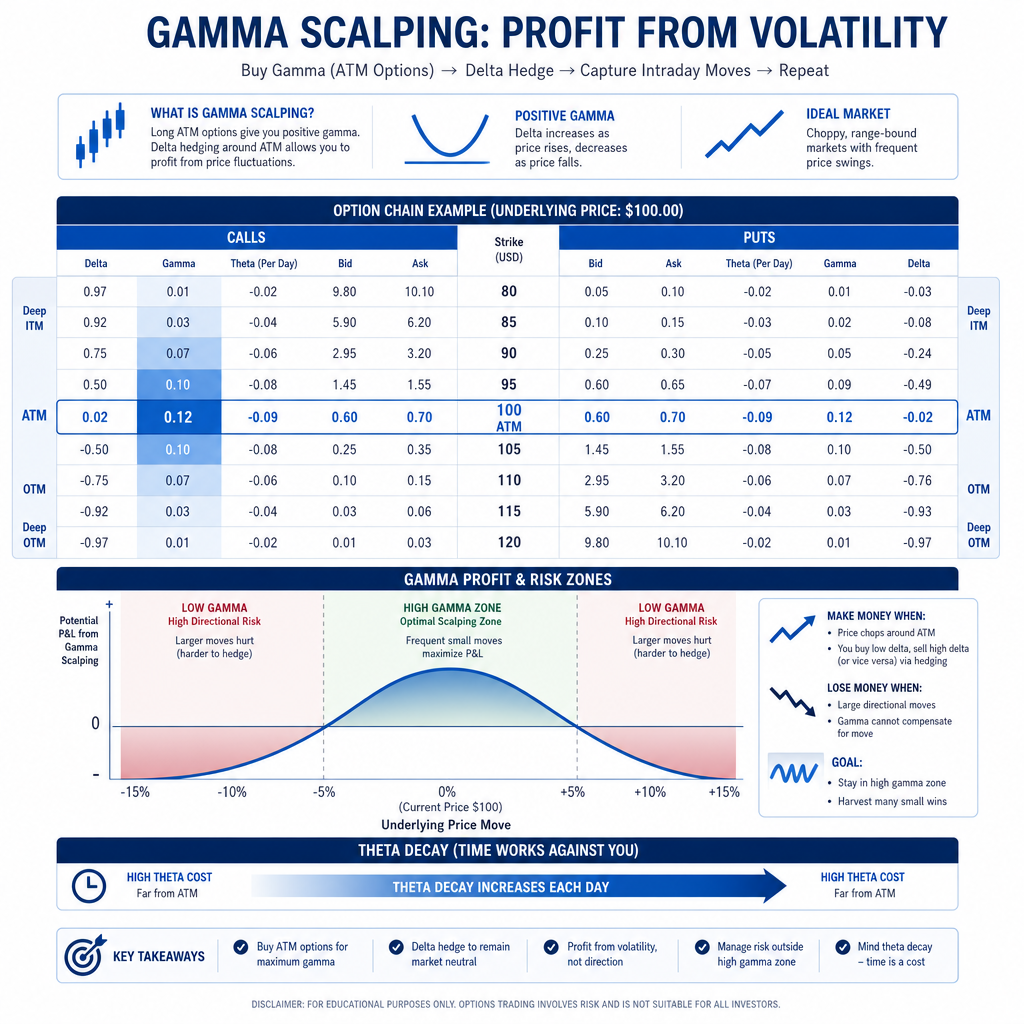
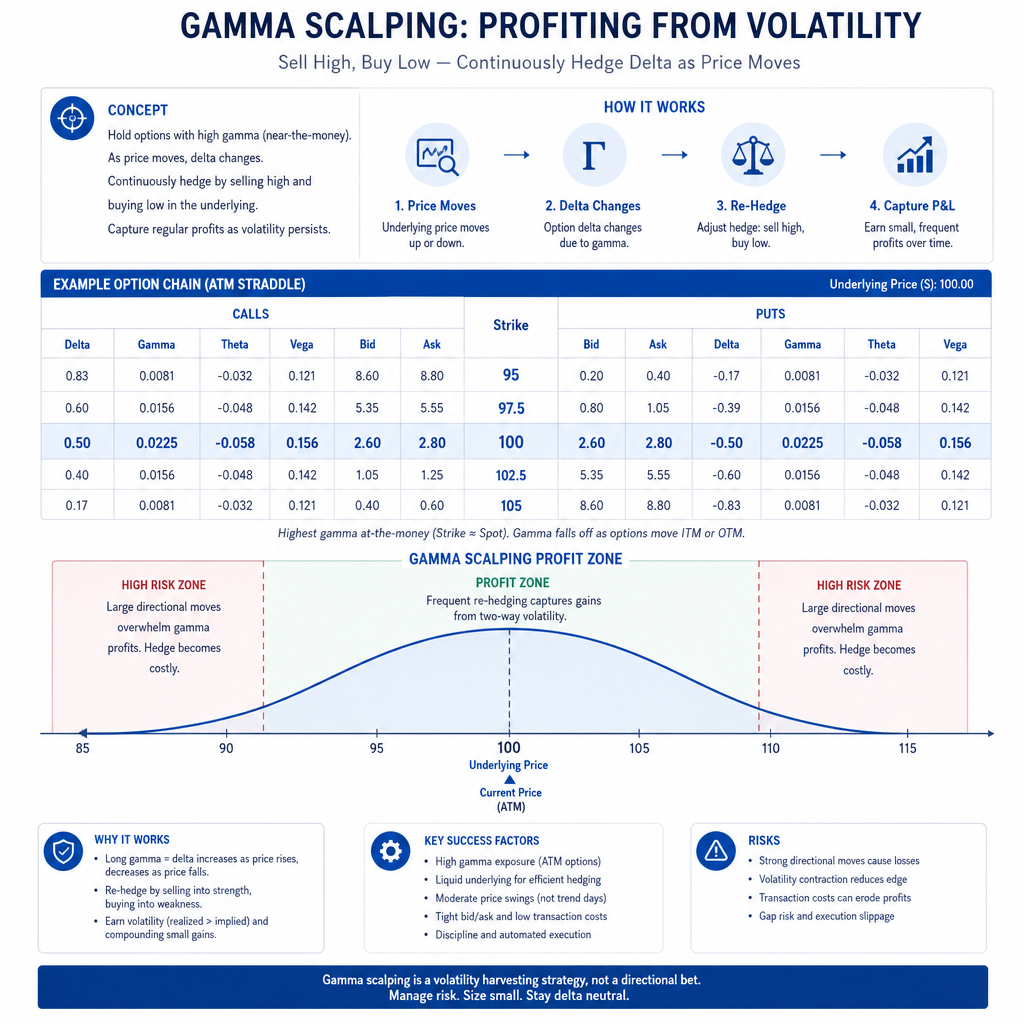
Add self-referencing canonical tags to all HTML pages

diff --git a/articles/2026-05-23-bond-yields-equity-options.html b/articles/2026-05-23-bond-yields-equity-options.html
@@ -13,7 +13,10 @@
  .share-btn { display: inline-flex; align-items: center; gap: 5px; padding: 7px 12px; border-radius: 4px; font-size: 12px; text-decoration: none; border: 1px solid #cc0000; background: transparent; cursor: pointer; font-family: inherit; color: #cc0000; transition: opacity 0.15s; }
  .share-btn:hover { opacity: 0.7; }
  </style>
- <link rel="canonical" href="https://dependability.us/articles/2026-05-23-bond-yields-equity-options">
+<link rel="canonical" href="https://dependability.us/articles/2026-05-23-bond-yields-equity-options.html"> <meta property="og:title" content="Bond Yields and Equity Options: The Interest Rate Connection">
+ <meta property="og:description" content="Understanding how Treasury yields affect option pricing through the lens of the Black-Scholes model, rho, and put-call parity.">
+ <meta property="og:image" content="https://dependability.us/articles/2026-05-23-bond-yields-equity-options.png">
+ <meta property="og:type" content="article">
  <script async src="https://pagead2.googlesyndication.com/pagead/js/adsbygoogle.js?client=ca-pub-9312870448453345" crossorigin="anonymous"></script>
 </head>
 <body>

diff --git a/articles/2026-05-23-gamma-scalping.html b/articles/2026-05-23-gamma-scalping.html
@@ -13,7 +13,10 @@
  .share-btn { display: inline-flex; align-items: center; gap: 5px; padding: 7px 12px; border-radius: 4px; font-size: 12px; text-decoration: none; border: 1px solid #cc0000; background: transparent; cursor: pointer; font-family: inherit; color: #cc0000; transition: opacity 0.15s; }
  .share-btn:hover { opacity: 0.7; }
  </style>
-  <link rel="canonical" href="https://dependability.us/articles/2026-05-23-gamma-scalping">
+<link rel="canonical" href="https://dependability.us/articles/2026-05-23-gamma-scalping.html"> <meta property="og:title" content="Gamma Scalping in Practice: Theory vs. Reality">
+ <meta property="og:description" content="Moving beyond textbook explanations to show how market makers manage gamma exposure and what retail traders can learn.">
+ <meta property="og:image" content="https://dependability.us/articles/2026-05-23-gamma-scalping.png">
+ <meta property="og:type" content="article">
  <script async src="https://pagead2.googlesyndication.com/pagead/js/adsbygoogle.js?client=ca-pub-9312870448453345" crossorigin="anonymous"></script>
 </head>
 <body>

diff --git a/articles/2026-05-23-market-regime-change.html b/articles/2026-05-23-market-regime-change.html
@@ -13,7 +13,10 @@
  .share-btn { display: inline-flex; align-items: center; gap: 5px; padding: 7px 12px; border-radius: 4px; font-size: 12px; text-decoration: none; border: 1px solid #cc0000; background: transparent; cursor: pointer; font-family: inherit; color: #cc0000; transition: opacity 0.15s; }
  .share-btn:hover { opacity: 0.7; }
  </style>
- <link rel="canonical" href="https://dependability.us/articles/2026-05-23-market-regime-change">
+<link rel="canonical" href="https://dependability.us/articles/2026-05-23-market-regime-change.html"> <meta property="og:title" content="The Anatomy of a Market Regime Change">
+ <meta property="og:description" content="Understanding market regime changes, breadth indicators, sector rotation patterns, and how to adjust options strategies across different market environments.">
+ <meta property="og:image" content="https://dependability.us/articles/2026-05-23-market-regime-change.png">
+ <meta property="og:type" content="article">
  <script async src="https://pagead2.googlesyndication.com/pagead/js/adsbygoogle.js?client=ca-pub-9312870448453345" crossorigin="anonymous"></script>
 </head>
 <body>

diff --git a/articles/2026-05-23-reading-the-skew.html b/articles/2026-05-23-reading-the-skew.html
@@ -13,7 +13,10 @@
  .share-btn { display: inline-flex; align-items: center; gap: 5px; padding: 7px 12px; border-radius: 4px; font-size: 12px; text-decoration: none; border: 1px solid #cc0000; background: transparent; cursor: pointer; font-family: inherit; color: #cc0000; transition: opacity 0.15s; }
  .share-btn:hover { opacity: 0.7; }
  </style>
-  <link rel="canonical" href="https://dependability.us/articles/2026-05-23-reading-the-skew">
+<link rel="canonical" href="https://dependability.us/articles/2026-05-23-reading-the-skew.html"> <meta property="og:title" content="Reading the Skew: What Options Prices Tell You About Market Expectations">
+ <meta property="og:description" content="Decoding the volatility smile and skew to understand what institutional traders are hedging against.">
+ <meta property="og:image" content="https://dependability.us/articles/2026-05-23-reading-the-skew.png">
+ <meta property="og:type" content="article">
  <script async src="https://pagead2.googlesyndication.com/pagead/js/adsbygoogle.js?client=ca-pub-9312870448453345" crossorigin="anonymous"></script>
 </head>
 <body>

diff --git a/articles/2026-05-23-understanding-the-vix.html b/articles/2026-05-23-understanding-the-vix.html
@@ -13,7 +13,10 @@
  .share-btn { display: inline-flex; align-items: center; gap: 5px; padding: 7px 12px; border-radius: 4px; font-size: 12px; text-decoration: none; border: 1px solid #cc0000; background: transparent; cursor: pointer; font-family: inherit; color: #cc0000; transition: opacity 0.15s; }
  .share-btn:hover { opacity: 0.7; }
  </style>
- <link rel="canonical" href="https://dependability.us/articles/2026-05-23-understanding-the-vix">
+<link rel="canonical" href="https://dependability.us/articles/2026-05-23-understanding-the-vix.html"> <meta property="og:title" content="Understanding the VIX: Why Market Fear is a Tradable Asset">
+ <meta property="og:description" content="A deep-dive into the CBOE Volatility Index (VIX): how it's calculated, what its spikes mean, VIX futures term structure, and how retail traders can use it for portfolio hedging.">
+ <meta property="og:image" content="https://dependability.us/articles/2026-05-23-understanding-the-vix.png">
+ <meta property="og:type" content="article">
  <script async src="https://pagead2.googlesyndication.com/pagead/js/adsbygoogle.js?client=ca-pub-9312870448453345" crossorigin="anonymous"></script>
 </head>
 <body>

diff --git a/about.html b/about.html
@@ -7,8 +7,7 @@
  <meta name="description" content="Dependability Holdings LLC — independent financial research on market volatility, options strategies, and macroeconomic trends.">
  <link rel="stylesheet" href="/style.css">
   <link rel="icon" type="image/svg+xml" href="/favicon.svg">
-  <link rel="canonical" href="https://dependability.us/about">
- <script async src="https://pagead2.googlesyndication.com/pagead/js/adsbygoogle.js?client=ca-pub-9312870448453345" crossorigin="anonymous"></script>
+<link rel="canonical" href="https://dependability.us/about.html"> <script async src="https://pagead2.googlesyndication.com/pagead/js/adsbygoogle.js?client=ca-pub-9312870448453345" crossorigin="anonymous"></script>
 </head>
 <body>
 

diff --git a/articles/2026-05-01-put-call-parity.html b/articles/2026-05-01-put-call-parity.html
@@ -13,8 +13,7 @@
  .share-btn { display: inline-flex; align-items: center; gap: 5px; padding: 7px 12px; border-radius: 4px; font-size: 12px; text-decoration: none; border: 1px solid #cc0000; background: transparent; cursor: pointer; font-family: inherit; color: #cc0000; transition: opacity 0.15s; }
  .share-btn:hover { opacity: 0.7; }
  </style>
- <link rel="canonical" href="https://dependability.us/articles/2026-05-01-put-call-parity">
- <script async src="https://pagead2.googlesyndication.com/pagead/js/adsbygoogle.js?client=ca-pub-9312870448453345" crossorigin="anonymous"></script>
+<link rel="canonical" href="https://dependability.us/articles/2026-05-01-put-call-parity.html"> <script async src="https://pagead2.googlesyndication.com/pagead/js/adsbygoogle.js?client=ca-pub-9312870448453345" crossorigin="anonymous"></script>
 </head>
 <body>
 

diff --git a/articles/2026-05-10-iv-crush-explained.html b/articles/2026-05-10-iv-crush-explained.html
@@ -13,8 +13,7 @@
  .share-btn { display: inline-flex; align-items: center; gap: 5px; padding: 7px 12px; border-radius: 4px; font-size: 12px; text-decoration: none; border: 1px solid #cc0000; background: transparent; cursor: pointer; font-family: inherit; color: #cc0000; transition: opacity 0.15s; }
  .share-btn:hover { opacity: 0.7; }
  </style>
-  <link rel="canonical" href="https://dependability.us/articles/2026-05-10-iv-crush-explained">
- <script async src="https://pagead2.googlesyndication.com/pagead/js/adsbygoogle.js?client=ca-pub-9312870448453345" crossorigin="anonymous"></script>
+<link rel="canonical" href="https://dependability.us/articles/2026-05-10-iv-crush-explained.html"> <script async src="https://pagead2.googlesyndication.com/pagead/js/adsbygoogle.js?client=ca-pub-9312870448453345" crossorigin="anonymous"></script>
 </head>
 <body>
 

diff --git a/articles/2026-05-12-market-outlook.html b/articles/2026-05-12-market-outlook.html
@@ -13,8 +13,7 @@
  .share-btn { display: inline-flex; align-items: center; gap: 5px; padding: 7px 12px; border-radius: 4px; font-size: 12px; text-decoration: none; border: 1px solid #cc0000; background: transparent; cursor: pointer; font-family: inherit; color: #cc0000; transition: opacity 0.15s; }
  .share-btn:hover { opacity: 0.7; }
  </style>
-  <link rel="canonical" href="https://dependability.us/articles/2026-05-12-market-outlook">
- <script async src="https://pagead2.googlesyndication.com/pagead/js/adsbygoogle.js?client=ca-pub-9312870448453345" crossorigin="anonymous"></script>
+<link rel="canonical" href="https://dependability.us/articles/2026-05-12-market-outlook.html"> <script async src="https://pagead2.googlesyndication.com/pagead/js/adsbygoogle.js?client=ca-pub-9312870448453345" crossorigin="anonymous"></script>
 </head>
 <body>
 

diff --git a/articles/2026-05-13-research-themes.html b/articles/2026-05-13-research-themes.html
@@ -13,8 +13,7 @@
  .share-btn { display: inline-flex; align-items: center; gap: 5px; padding: 7px 12px; border-radius: 4px; font-size: 12px; text-decoration: none; border: 1px solid #cc0000; background: transparent; cursor: pointer; font-family: inherit; color: #cc0000; transition: opacity 0.15s; }
  .share-btn:hover { opacity: 0.7; }
  </style>
-  <link rel="canonical" href="https://dependability.us/articles/2026-05-13-research-themes">
- <script async src="https://pagead2.googlesyndication.com/pagead/js/adsbygoogle.js?client=ca-pub-9312870448453345" crossorigin="anonymous"></script>
+<link rel="canonical" href="https://dependability.us/articles/2026-05-13-research-themes.html"> <script async src="https://pagead2.googlesyndication.com/pagead/js/adsbygoogle.js?client=ca-pub-9312870448453345" crossorigin="anonymous"></script>
 </head>
 <body>
 

diff --git a/articles/2026-05-13-trump-china-summit.html b/articles/2026-05-13-trump-china-summit.html
@@ -13,8 +13,7 @@
  .share-btn { display: inline-flex; align-items: center; gap: 5px; padding: 7px 12px; border-radius: 4px; font-size: 12px; text-decoration: none; border: 1px solid #cc0000; background: transparent; cursor: pointer; font-family: inherit; color: #cc0000; transition: opacity 0.15s; }
  .share-btn:hover { opacity: 0.7; }
  </style>
-  <link rel="canonical" href="https://dependability.us/articles/2026-05-13-trump-china-summit">
- <script async src="https://pagead2.googlesyndication.com/pagead/js/adsbygoogle.js?client=ca-pub-9312870448453345" crossorigin="anonymous"></script>
+<link rel="canonical" href="https://dependability.us/articles/2026-05-13-trump-china-summit.html"> <script async src="https://pagead2.googlesyndication.com/pagead/js/adsbygoogle.js?client=ca-pub-9312870448453345" crossorigin="anonymous"></script>
 </head>
 <body>
 

diff --git a/articles/2026-05-14-spacex-ipo-etf-exposure.html b/articles/2026-05-14-spacex-ipo-etf-exposure.html
@@ -7,8 +7,7 @@
  <meta name="description" content="What today's Cerebras debut and a looming SpaceX listing signal about the IPO cycle—and how investors are using ETFs to get exposure before the bell.">
  <link rel="stylesheet" href="/style.css">
   <link rel="icon" type="image/svg+xml" href="/favicon.svg">
-  <link rel="canonical" href="https://dependability.us/articles/2026-05-14-spacex-ipo-etf-exposure">
- <script async src="https://pagead2.googlesyndication.com/pagead/js/adsbygoogle.js?client=ca-pub-9312870448453345" crossorigin="anonymous"></script>
+<link rel="canonical" href="https://dependability.us/articles/2026-05-14-spacex-ipo-etf-exposure.html"> <script async src="https://pagead2.googlesyndication.com/pagead/js/adsbygoogle.js?client=ca-pub-9312870448453345" crossorigin="anonymous"></script>
 </head>
 <body>
 